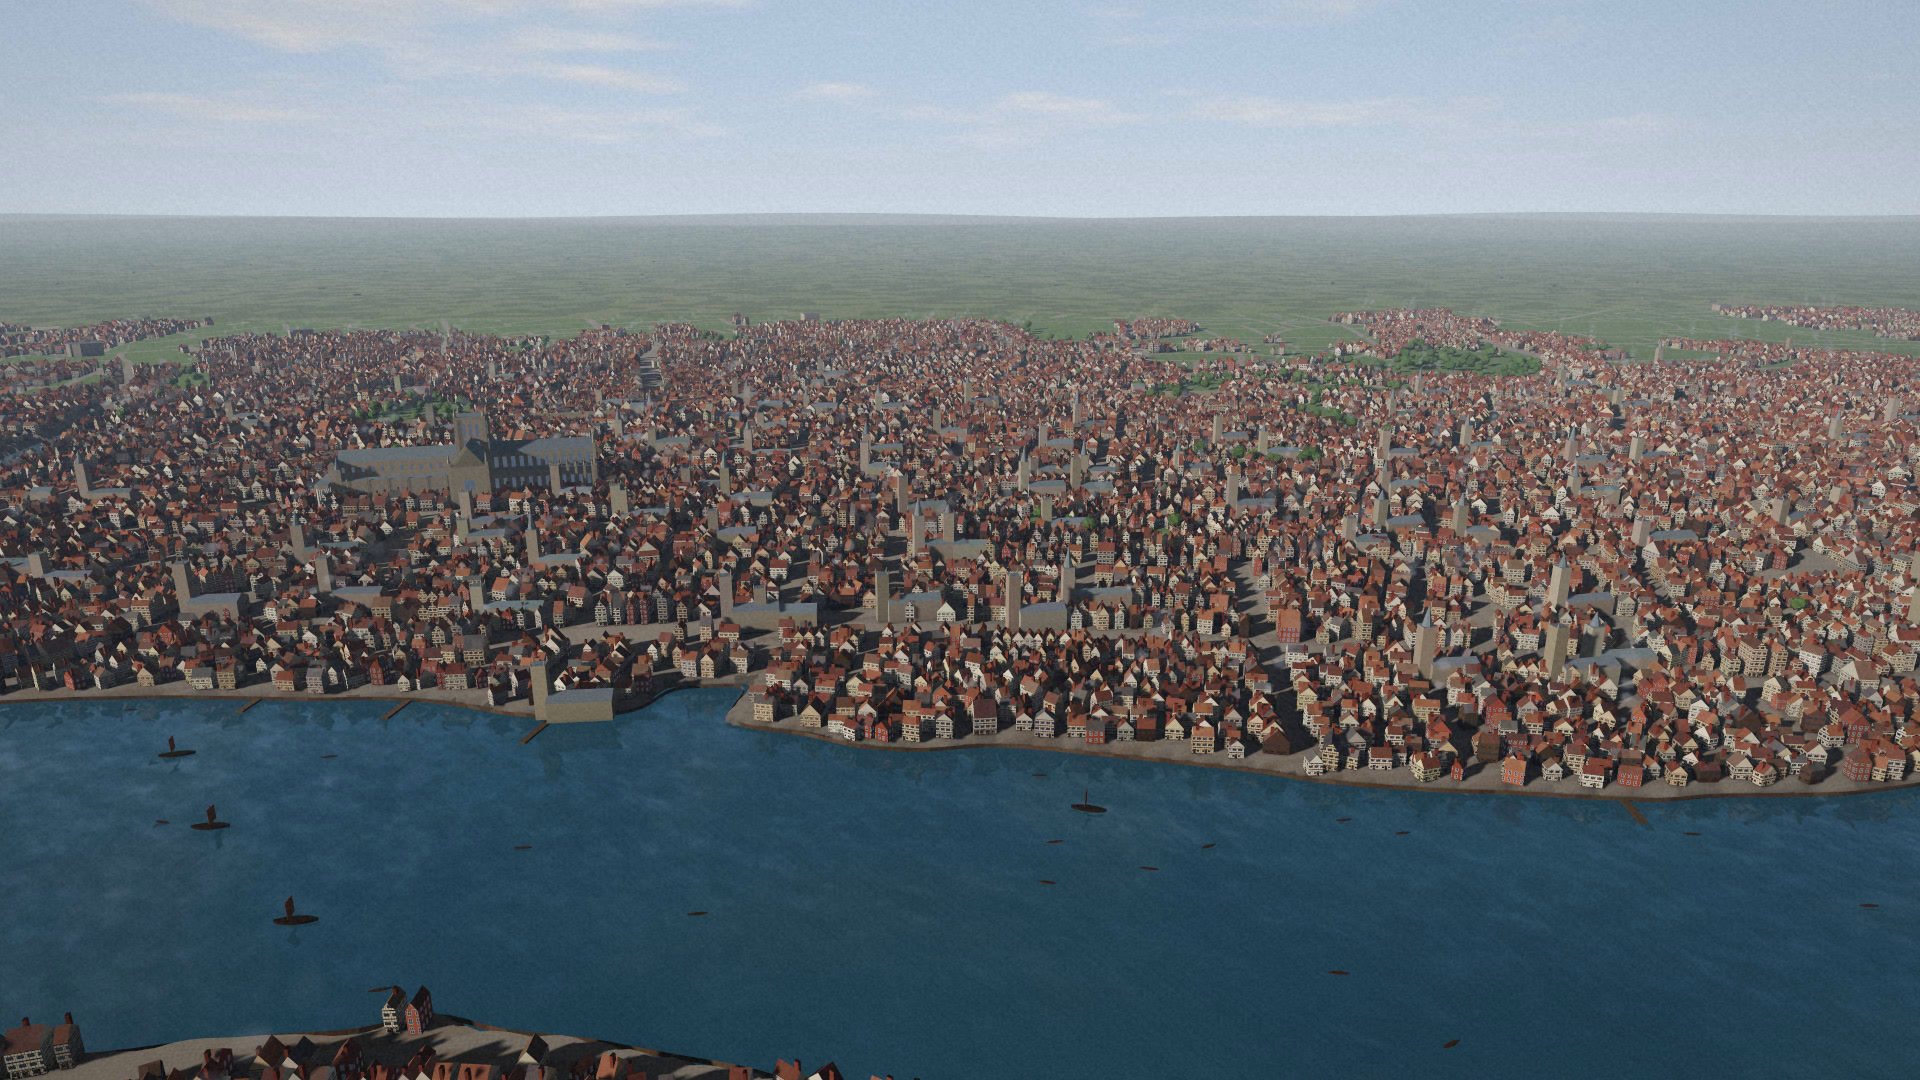
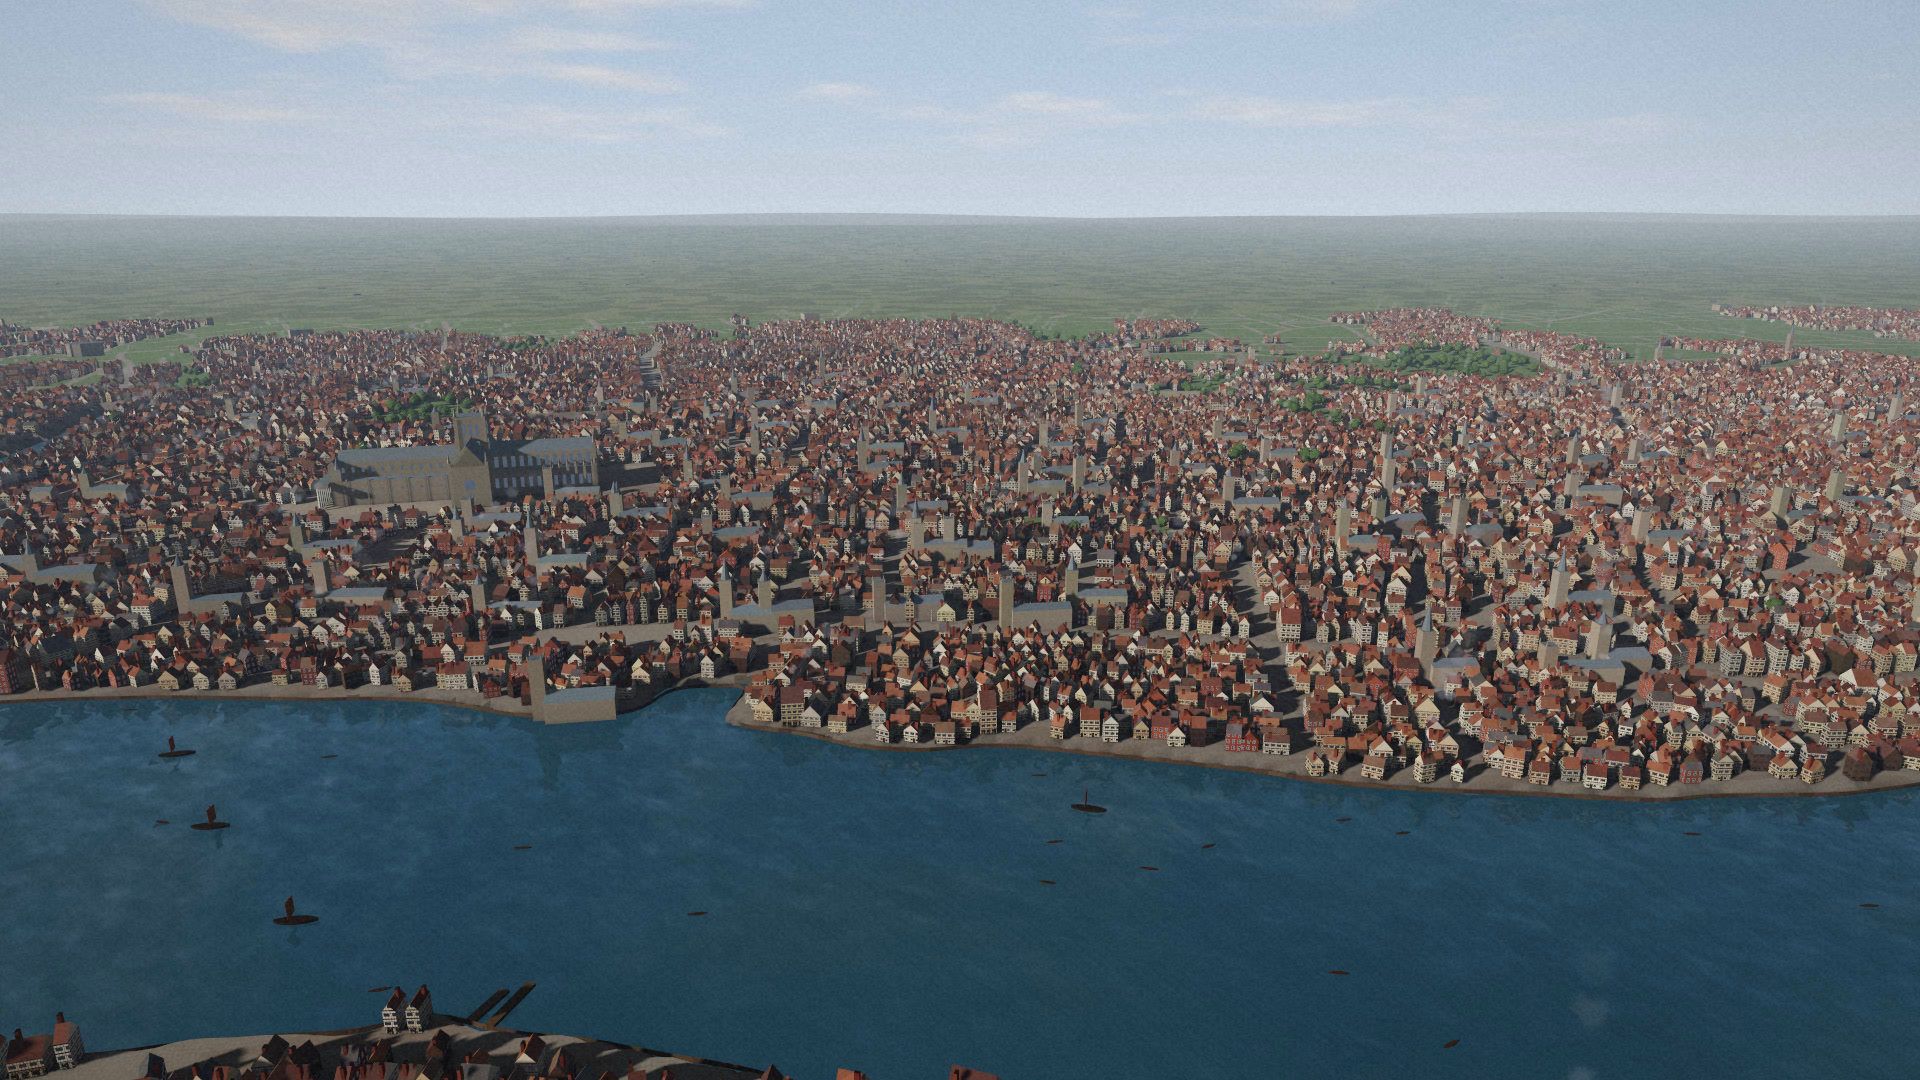
LOOK-T4: 24 khung + tờ chọn mù + khoá dựng lại trên hình học bản cuối; clip/T3 đang dựng
Claude-Session: https://claude.ai/code/session_01X7QbvPuMTC7ktCTaDBWYcn

diff --git a/reports/look-t4/CHECKPOINT.md b/reports/look-t4/CHECKPOINT.md
@@ -4,6 +4,7 @@
 
 ## Trạng thái
 - 23/10 ≈ 14:40 UTC: ĐANG LÀM — soát T3 thấy sân nhà thờ St Paul's bị lấp + cửa sổ hoa hồng sai hướng → sửa hình học, nướng lại, DỰNG LẠI TOÀN BỘ (24 khung, tờ mù, 4 clip, đo 1080p, T3) bằng `/var/tmp/ldn/r/lai_het.sh` (dự kiến xong ≈ 15:50). Báo cáo đang điền số.
+- 23/10 ≈ 14:55 UTC: dựng lại xong 24 khung + tờ mù + khoá trên hình học bản cuối (nướng lại 14:37–14:41); đang dựng clip + đo 1080p + T3.
 - Chi phí: Claude API 0 · OpenAI 0 · RunPod 0 (nướng Cycles CPU đủ nhanh, không thuê GPU) · Gemini/ElevenLabs/YouTube 0.
 - Không pod GPU nào bật. Tiến trình nền: PID trong `/var/tmp/ldn/log/*.pid`.
 
